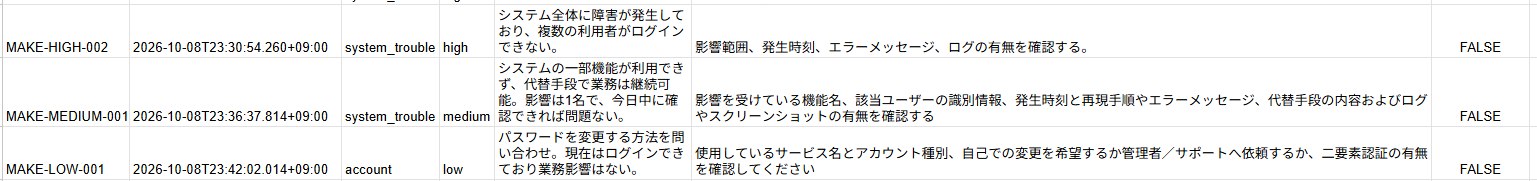
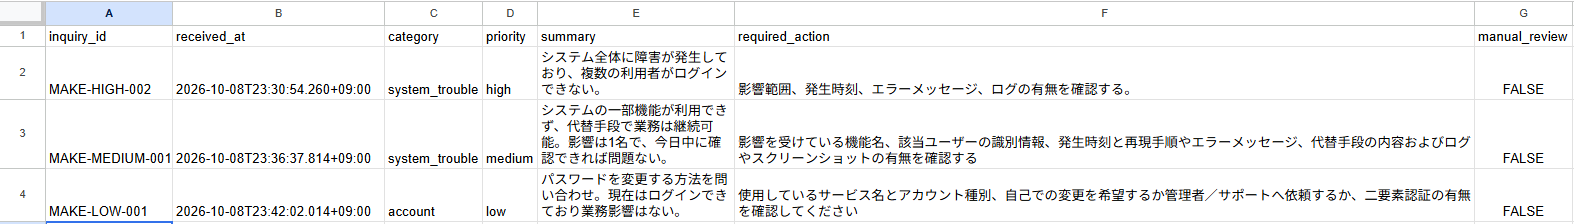
Improve portfolio documentation and test coverage

diff --git a/README.md b/README.md
@@ -2,6 +2,10 @@
 
 n8n / Make / OpenAI API を使い、問い合わせ内容をAIで分類・要約し、優先度に応じて記録・通知する業務自動化PoCです。
 
+問い合わせ内容の確認、分類・要約、優先度判断、Google Sheetsへの転記、高優先度の問い合わせのみのSlack通知にかかる手作業を減らすことを目的としています。
+
+同じ業務要件をn8nとMakeの両方で実装し、構成を比較しています。n8n版ではAI出力の検証と処理の制御を重視し、Make版ではGUI中心にシンプルに再実装しています。
+
 以下のWorkflowからn8n Workflowまではn8n版の説明です。Make版は「Make Version」で紹介します。
 
 ## Workflow
@@ -63,23 +67,16 @@ high / medium / low の3パターンを確認しています。
 
 ## Test Cases
 
-### High Priority
+以下はn8n版のテストです。`Confirmed` はワークフロー全体の実行確認を示します。`Partial` は一部の入力のみ確認済み、`No` は未確認です。期待結果と確認済みの範囲を分けて記載しています。
 
-- 複数ユーザーに影響
-- 代替手段なし
-- 業務停止
-- Google Sheetsへ保存
-- Slack通知あり
-- `notification_sent = true`
-
-### Medium Priority
-
-- 一部機能に問題
-- 代替手段あり
-- 業務継続可能
-- Google Sheetsへ保存
-- Slack通知なし
-- `notification_sent = false`
+| Case | 入力・条件 | 期待結果 | Confirmed | 確認済みの範囲・根拠 |
+| --- | --- | --- | --- | --- |
+| High Priority | 複数ユーザーに影響、代替手段なし、業務停止 | Google Sheetsへ保存、Slack通知あり、`notification_sent = true` | Yes | 実行記録 #34：`priority = high`、Sheets・Slack・正常レスポンスの各ノードを通過し正常終了 |
+| Medium Priority | 一部機能に問題、代替手段あり、業務継続可能 | Google Sheetsへ保存、Slack通知なし、`notification_sent = false` | Yes | 実行記録 #36：`priority = medium`、Sheetsから通知なしの正常レスポンスへ進み正常終了 |
+| Low Priority | 業務影響や緊急性のない操作方法等の問い合わせ | Google Sheetsへ保存、Slack通知なし、`notification_sent = false` | Yes | 実行記録 #37：`priority = low`、Sheetsから通知なしの正常レスポンスへ進み正常終了 |
+| Invalid Input | `inquiry_id` または `message` が未入力 | HTTP 400と必須入力エラーのWebhookレスポンス | No | 該当する実行記録は未確認 |
+| Invalid JSON | AI出力がJSONとして解析できない | Codeで `valid = false` / `manual_review = true`、`reason = invalid_json`。Webhookで `status = manual_review` | No | 該当する実行記録は未確認 |
+| Invalid Schema / Value | AI出力が `null`、配列、プリミティブ値、または不正な `category` | 例外なくCodeで `valid = false` / `manual_review = true`、`reason = invalid_schema_or_value`。If1のfalse側からWebhookで `status = manual_review` | Partial | `null` は実行記録 #39で `analysis = null`、If1のfalse側からRespond to Webhook2まで到達し正常終了。配列・プリミティブ値・不正categoryはCode単体で確認済み、ワークフロー全体は未確認 |
 
 ## Tech Stack
 
@@ -91,10 +88,80 @@ high / medium / low の3パターンを確認しています。
 
 ## Setup
 
-1. n8nを起動します（Docker Composeを利用できます）。
-2. n8nにOpenAI、Google Sheets、SlackのCredentialsを登録します。
-3. `n8n/inquiry-triage-workflow.public.json` をインポートします。
-4. Google SheetsのファイルとSlackチャンネルを自分の環境に合わせて設定し、Webhookを有効化します。
+### 1. n8nを起動
+
+DockerとDocker Composeを利用できる環境で、リポジトリのルートから実行します。
+
+```powershell
+docker compose up -d
+docker compose ps
+```
+
+ブラウザで `http://localhost:5678` を開きます。初回起動時に画面の案内に従ってアカウントを設定します。Composeでは `./n8n_data` にデータを保存します。イメージはリポジトリの `docker-compose.yml` の指定を使用します（固定バージョンの指定はありません）。
+
+### 2. 公開用ワークフローをインポート
+
+n8nでワークフローのメニューから **Import from File** を選び、`n8n/inquiry-triage-workflow.public.json` を読み込みます。公開用JSONの認証・接続先はプレースホルダーのため、以下の手動設定が必要です。
+
+### 3. Credentialsと接続先を設定
+
+n8nで自分のOpenAI / Google Sheets / SlackのCredentialsを作成し、各ノードで選択します。認証値はn8nのCredentialsに登録してください。
+
+| ノード | 必要な設定 |
+| --- | --- |
+| Message a model | OpenAI APIのCredential。モデルはJSONで指定されている `gpt-5-mini` を使用できることを確認 |
+| Append row in sheet | Google Sheets OAuth2のCredential。書き込み可能な自分のスプレッドシートとシートを選択 |
+| Send a message | Slack OAuth2のCredential。認証したアプリが投稿できる自分のチャンネルを選択 |
+
+Google Sheetsの対象シートの1行目に、次の列名を設定します。
+
+```text
+inquiry_id
+received_at
+category
+priority
+summary
+required_action
+manual_review
+```
+
+接続先の選択後、Append row in sheetの列マッピングがこれらの列に対応していることを確認します。
+
+### 4. Webhookへサンプルを送信
+
+サンプル入力は次のとおりです。
+
+```json
+{
+  "inquiry_id": "SAMPLE-001",
+  "message": "システムの一部機能が利用できませんが、代替手段で業務は継続できています。"
+}
+```
+
+Webhookノードに表示される **Test URL** をコピーし、ワークフロー全体の **Execute workflow** で待受を開始します。その後、PowerShellで次を実行してください。URLは実行時に入力するため、このREADMEには実環境のWebhook URLを記載していません。
+
+```powershell
+$webhookUrl = Read-Host "WebhookノードのTest URLを入力"
+
+$json = @{
+    inquiry_id = "SAMPLE-001"
+    message = "システムの一部機能が利用できませんが、代替手段で業務は継続できています。"
+} | ConvertTo-Json
+
+$body = [System.Text.Encoding]::UTF8.GetBytes($json)
+
+Invoke-RestMethod `
+    -Method Post `
+    -Uri $webhookUrl `
+    -ContentType "application/json; charset=utf-8" `
+    -Body $body
+```
+
+実行結果とGoogle Sheetsへの保存を確認します。AIの判定結果は入力や実行によって異なり、検証成功かつ `high` の場合のみSlack通知されます。検証失敗時は `manual_review` ステータスを返します。
+
+継続利用する場合は設定済みのワークフローを保存・公開（有効化）し、Webhookノードの **Production URL** を送信先に使用します。Test URLはテスト待受中に使用します。
+
+インポートとWebhookの扱いは、[n8n公式のインポート手順](https://docs.n8n.io/workflows/export-import/)と[Webhookの説明](https://docs.n8n.io/integrations/builtin/core-nodes/n8n-nodes-base.webhook/)も参照してください。
 
 ## n8n Workflow
 
